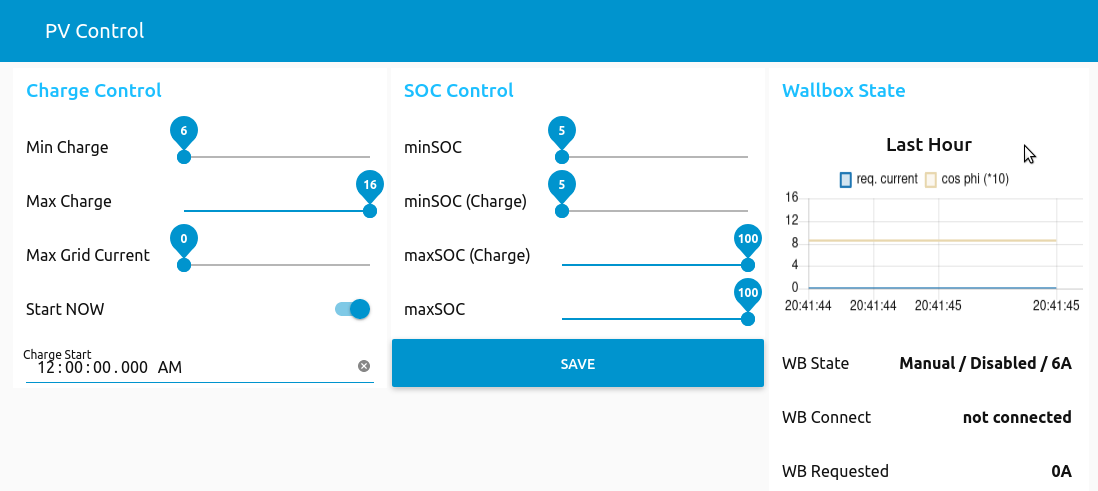
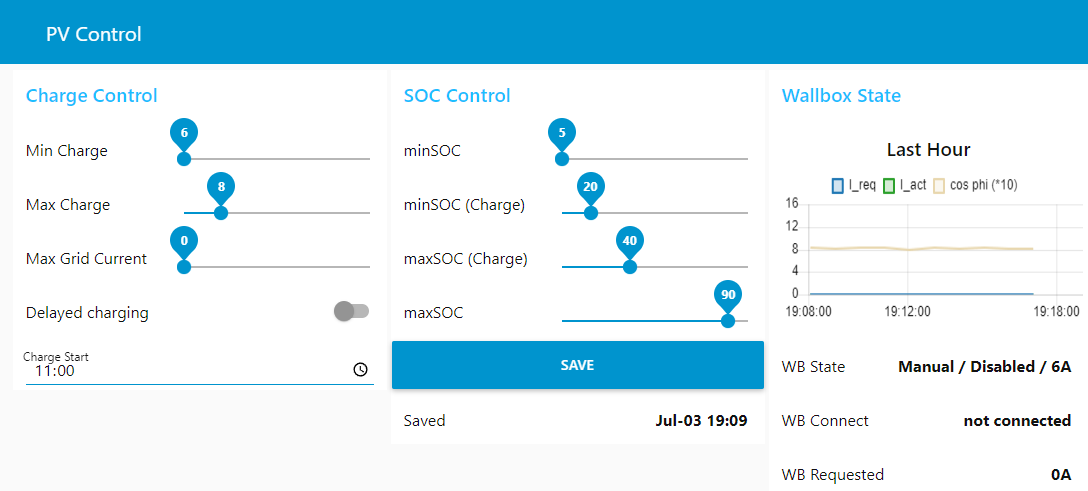
v1.1
minor bug fixes, logic of 'Start NOW' inverted ('Delayed charging' now)

diff --git a/README.md b/README.md
@@ -91,6 +91,7 @@ Once the flow is installed (and a manual trial run successfully executed), enabl
 | Version |Date | Comment |
 |---------|-----|---------|
 | 1.0     | January 2022 | Initial release |
+| 1.1     | 2022-07-03   | minor bug-fixes, `Start Now` switch replaced with `Delayed Charging`
 
 ## Disclaimer
 The software controls `PVOptimize`. Errors in the GUI software can result in `PVOptimize` not to perform its desired task - as an example, the EV could remain un-charged in the morning. The author cannot be held liable for this or any other damage caused through the use of this software.
